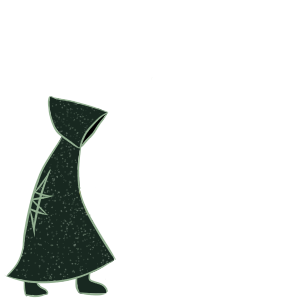
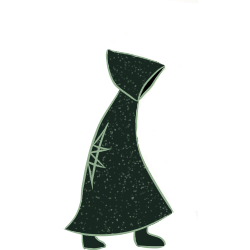
no more dancing alchemist

Changed region(s): [[0.0, 0.196, 0.7, 1.0]]

diff --git a/src/js/game.js b/src/js/game.js
@@ -42,7 +42,7 @@ export class Game extends Engine {
         this.add('l1scenetwo', new LOneSceneTwo())
         this.add('l1extra', new LOneExtraScene())
         this.add('l1extrabad', new LOneExtraSceneBad())
-        this.goToScene('levelthree')
+        this.goToScene('intro')
 
         this.input.gamepads.enabled = true
         this.input.gamepads.on('connect', (connectevent) => {

diff --git a/src/js/intro.js b/src/js/intro.js
@@ -31,7 +31,7 @@ export class Intro extends Scene {
         this.add(letter)
 
         const alchemist = new Alchemist()
-        alchemist.graphics.use(Resources.AlchemistLamp.toSprite())
+        alchemist.graphics.use(Resources.Alchemist.toSprite())
         alchemist.pos = new Vector(1000, 500)
         this.add(alchemist)
 
